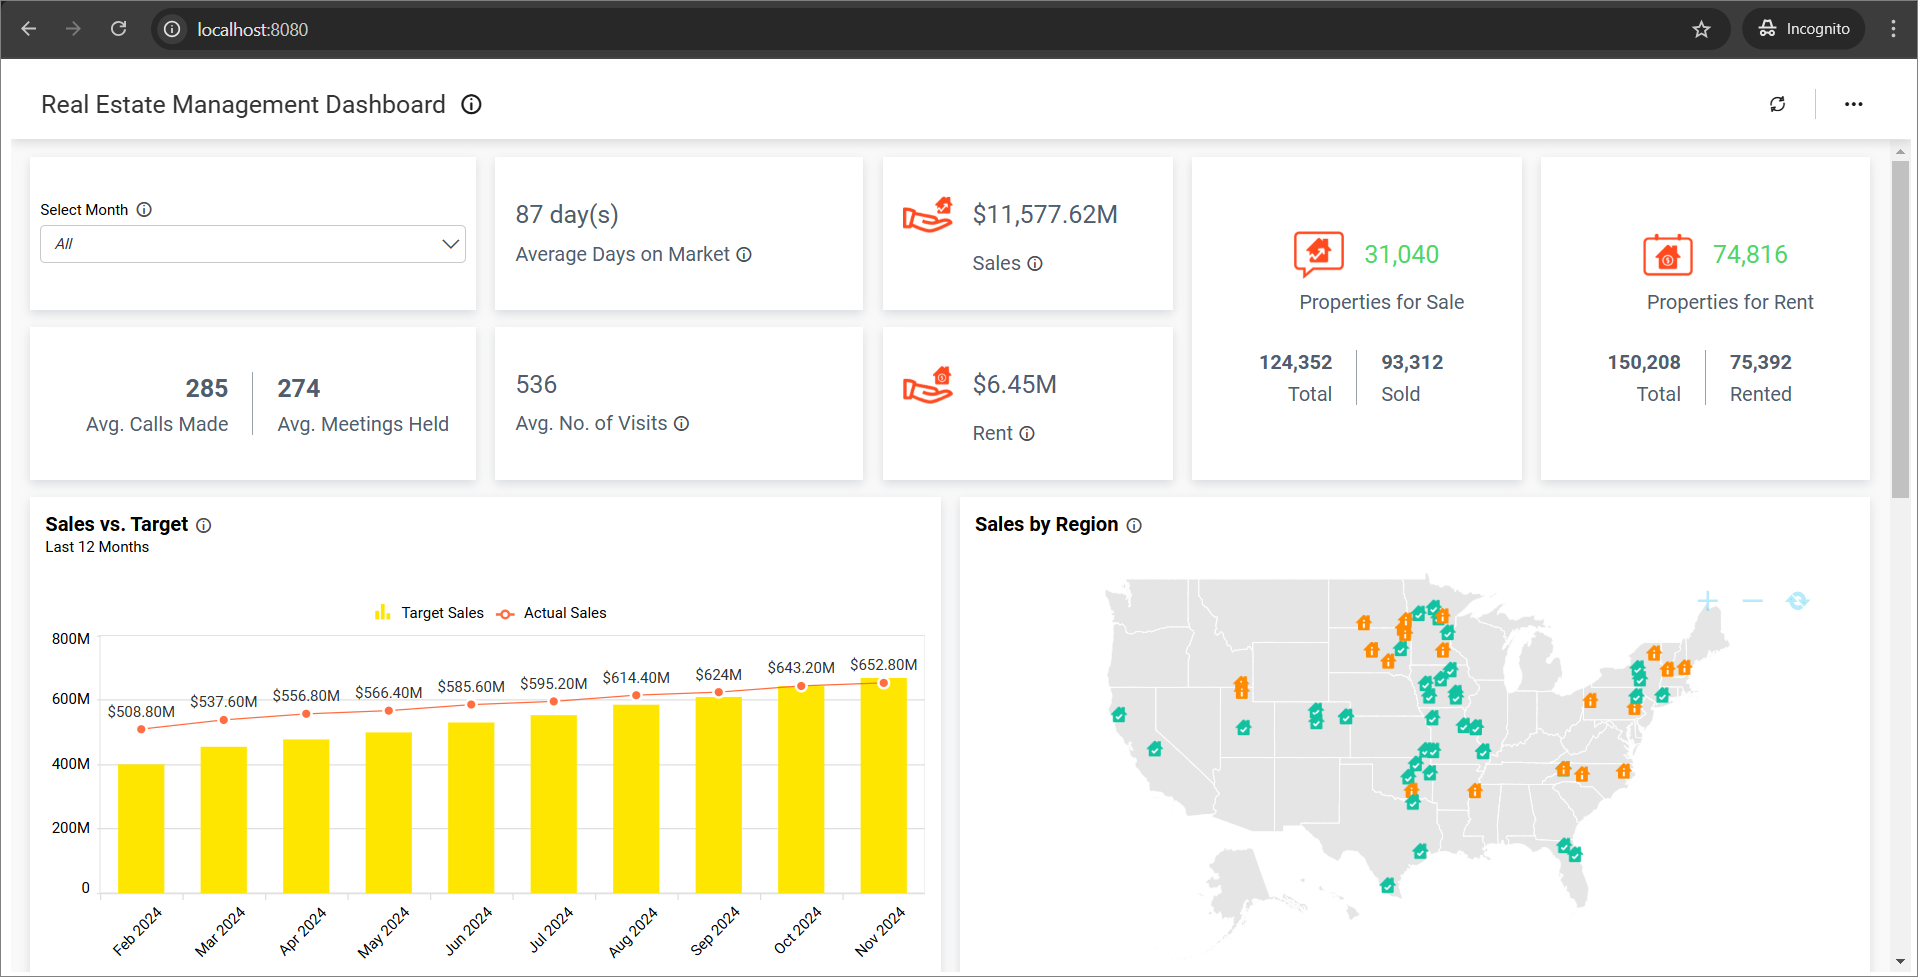
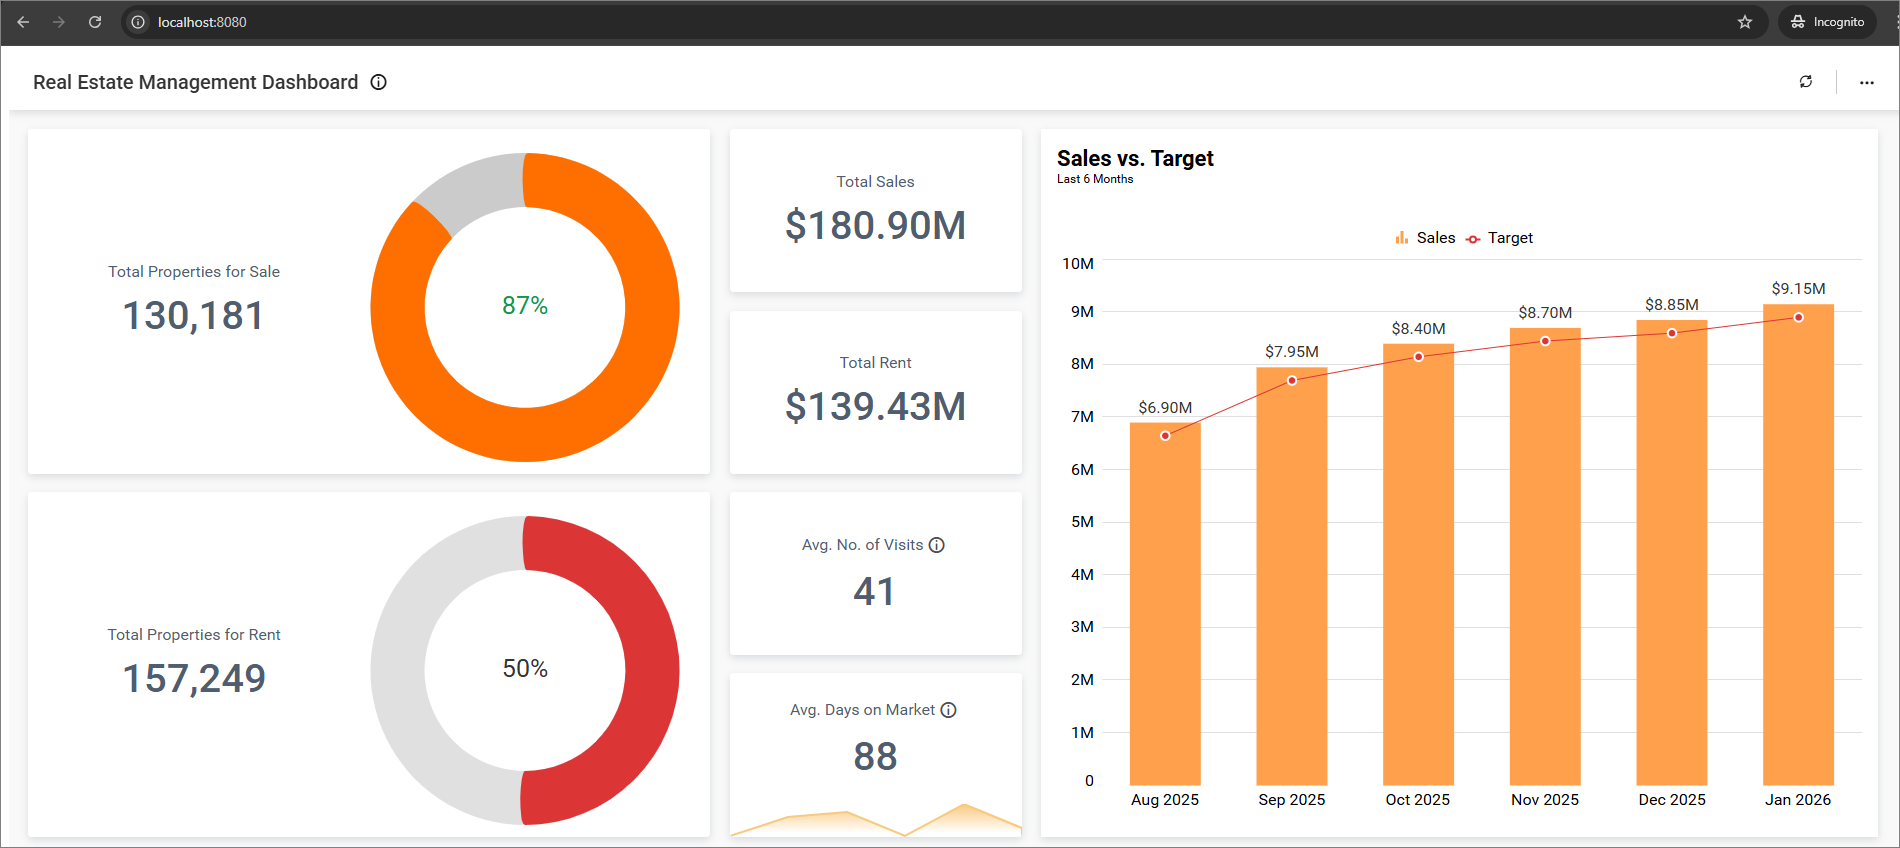
updated sample with embedtoken

diff --git a/Vue/src/App.vue b/Vue/src/App.vue
@@ -24,12 +24,13 @@ export default ({
       document.head.appendChild(tag);
     });
 
-    //Url of the GetDetails api in ASP.NET Core server and act as Authorization Server.
-    let authorizationUrl = "http://localhost:5000/api/boldbiembed/authorizationserver";
+    //Url of the TokenGeneration action in BoldBIEmbedController of the ASP.NET Core application
+    let tokenGenerationUrl = "http://localhost:5000/api/boldbiembed/tokengeneration";
 
      try {
       const response = await fetch('http://localhost:5000/api/boldbiembed/getserverdetails');
       const data = await response.json();
+
       // Transform camelCase keys to PascalCase
       const transformedEmbedConfigData = {
         DashboardId: data.dashboardId,
@@ -39,23 +40,38 @@ export default ({
         SiteIdentifier: data.siteIdentifier
       };
       renderDashboard(transformedEmbedConfigData);
-          
+
     } catch (error) {
         this.errorMessage = 'Error: embedConfig.json file is not found.';
     }
 
-    function renderDashboard(data) {
-      let dashboard = BoldBI.create({
-        serverUrl: data.ServerUrl + '/' + data.SiteIdentifier,
-        dashboardId: data.DashboardId,
-        embedContainerId: 'dashboard',
-        width: '100%',
-        height: window.innerHeight -18 + 'px',
-        authorizationServer: {
-          url: authorizationUrl
-        }
+    function getEmbedToken() {
+      return fetch(tokenGenerationUrl, {  // Backend application URL
+        method: 'POST',
+        headers: { 'Content-Type': 'application/json' },
+        body: JSON.stringify({})
+      })
+      .then(response => {
+        if (!response.ok) throw new Error("Token fetch failed");
+        return response.text();
       });
-      dashboard.loadDashboard();
+  }
+
+  function renderDashboard(data) {
+    getEmbedToken()
+      .then(accessToken => {
+        const dashboard = BoldBI.create({
+          serverUrl: data.ServerUrl + "/" + data.SiteIdentifier,
+          dashboardId: data.DashboardId,
+          embedContainerId: "dashboard",
+          embedToken: accessToken
+        });
+
+        dashboard.loadDashboard();
+      })
+      .catch(err => {
+        console.error("Error rendering dashboard:", err);
+      });
     }
   }
 });

diff --git a/BoldBI.Embed.Sample/BoldBI.Embed.Sample/Controllers/BoldBIEmbedController.cs b/BoldBI.Embed.Sample/BoldBI.Embed.Sample/Controllers/BoldBIEmbedController.cs
@@ -3,11 +3,9 @@ using System.Net.Http;
 using Microsoft.AspNetCore.Mvc;
 using System.Collections.Generic;
 using Newtonsoft.Json;
-using System.Linq;
-using System.Security.Cryptography;
-using System.Threading.Tasks;
 using System.IO;
 using BoldBI.Embed.Sample.Models;
+using System.Text;
 
 namespace BoldBI.Embed.Sample.Controllers
 {
@@ -30,7 +28,6 @@ namespace BoldBI.Embed.Sample.Controllers
                 return View("EmbedConfigErrorLog");
             }
         }
-
 
         [HttpGet]
         [Route("GetServerDetails")]
@@ -96,45 +93,32 @@ namespace BoldBI.Embed.Sample.Controllers
         }
 
         [HttpPost]
-        [Route("AuthorizationServer")]
-        public string AuthorizationServer([FromBody] object embedQuerString)
+        [Route("TokenGeneration")]
+        public string TokenGeneration()
         {
-            var embedClass = Newtonsoft.Json.JsonConvert.DeserializeObject<EmbedClass>(embedQuerString.ToString());
-
-            var embedQuery = embedClass.embedQuerString;
-            // User your user-email as embed_user_email
-            embedQuery += "&embed_user_email=" + GlobalAppSettings.EmbedDetails.UserEmail;
-            //To set embed_server_timestamp to overcome the EmbedCodeValidation failing while different timezone using at client application.
-            double timeStamp = (int)DateTime.UtcNow.Subtract(new DateTime(1970, 1, 1)).TotalSeconds;
-            embedQuery += "&embed_server_timestamp=" + timeStamp;
-            var embedDetailsUrl = "/embed/authorize?" + embedQuery + "&embed_signature=" + GetSignatureUrl(embedQuery);
-
-            using (var client = new HttpClient())
+            var embedDetails = new
             {
-                client.BaseAddress = new Uri(embedClass.dashboardServerApiUrl);
-                client.DefaultRequestHeaders.Accept.Clear();
-
-                var result = client.GetAsync(embedClass.dashboardServerApiUrl + embedDetailsUrl).Result;
-                string resultContent = result.Content.ReadAsStringAsync().Result;
-                return resultContent;
-            }
-
-        }
-
-        public string GetSignatureUrl(string queryString)
-        {
-            if (queryString != null)
-            {
-                var encoding = new System.Text.UTF8Encoding();
-                var keyBytes = encoding.GetBytes(GlobalAppSettings.EmbedDetails.EmbedSecret);
-                var messageBytes = encoding.GetBytes(queryString);
-                using (var hmacsha1 = new HMACSHA256(keyBytes))
+                email = GlobalAppSettings.EmbedDetails.UserEmail,
+                serverurl = GlobalAppSettings.EmbedDetails.ServerUrl,
+                siteidentifier = GlobalAppSettings.EmbedDetails.SiteIdentifier,
+                embedsecret = GlobalAppSettings.EmbedDetails.EmbedSecret,
+                dashboard = new  // Dashboard ID property is mandatory only when using BoldBI version 14.1.11.
                 {
-                    var hashMessage = hmacsha1.ComputeHash(messageBytes);
-                    return Convert.ToBase64String(hashMessage);
+                    id = GlobalAppSettings.EmbedDetails.DashboardId
                 }
-            }
-            return string.Empty;
+            };
+            
+            //Post call to Bold BI server
+            var client = new HttpClient();
+            var requestUrl = $"{embedDetails.serverurl}/api/{embedDetails.siteidentifier}/embed/authorize";
+
+            var jsonPayload = JsonConvert.SerializeObject(embedDetails);
+            var httpContent = new StringContent(jsonPayload, Encoding.UTF8, "application/json");
+
+            var result = client.PostAsync(requestUrl, httpContent).Result;
+            var resultContent = result.Content.ReadAsStringAsync().Result;
+
+            return JsonConvert.DeserializeObject<dynamic>(resultContent).Data.access_token;
         }
     }
 }
